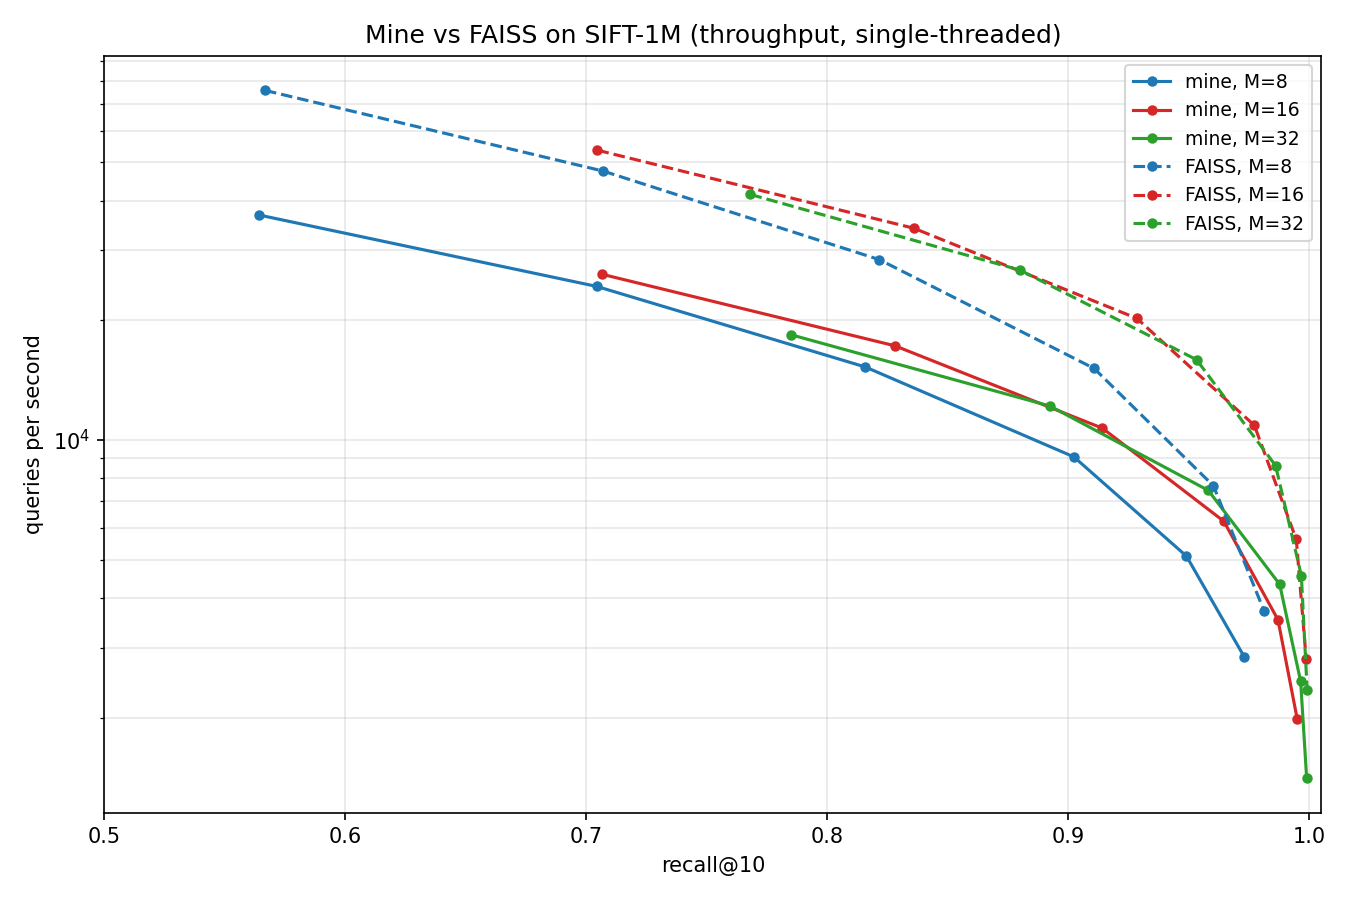
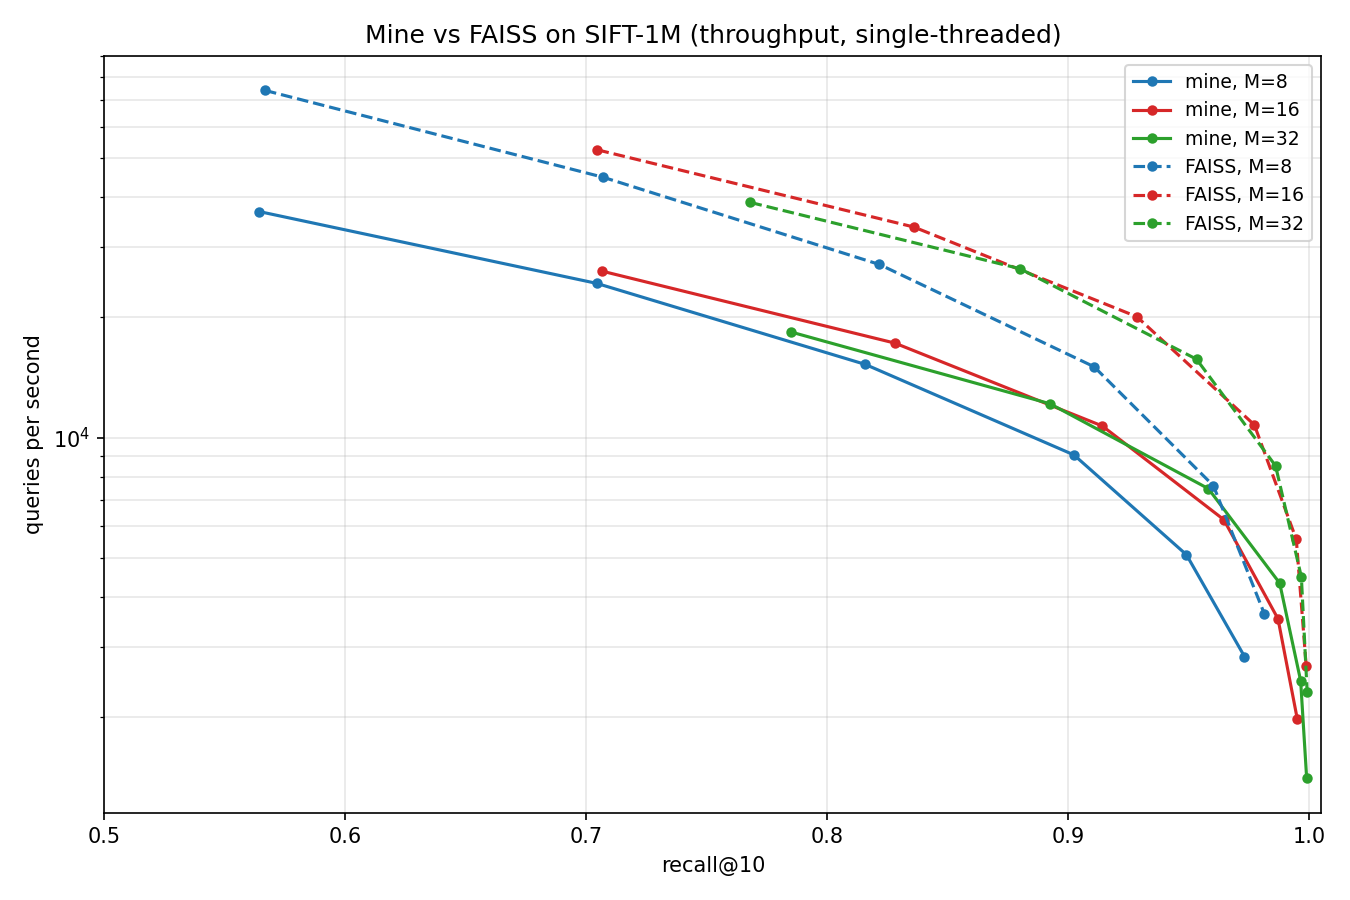
updated readme and ran data on faiss using multithreading and batching (10 cores)

diff --git a/benchmarks/faiss_compare.py b/benchmarks/faiss_compare.py
@@ -17,8 +17,8 @@ print(faiss.omp_get_max_threads())
 RESULTS_DIR = Path(__file__).resolve().parent / "results"
 INDEX_DIR = Path(__file__).resolve().parent.parent / "data" / "indexes"
 
-M_VALUES = [16]
-EFC_VALUES = [200]
+M_VALUES = [8, 16, 32]
+EFC_VALUES = [100, 200]
 EFS_VALUES = [10, 20, 40, 80, 160, 320]
 N_QUERIES = 1000
 K = 10
@@ -109,10 +109,18 @@ def main():
     queries, gt = queries[:N_QUERIES], gt[:N_QUERIES]
 
     rows  = bench_faiss(base, queries, gt, threads=1, batched=False)  # baseline
+
+    out = RESULTS_DIR / "faiss_sift1m.csv"
+    with open(out, "w", newline="") as f:
+        w = csv.DictWriter(f, fieldnames=list(rows[0].keys()))
+        w.writeheader()
+        w.writerows(rows)
+    print(f"\nwrote {out}")
+
     rows += bench_faiss(base, queries, gt, threads=1, batched=True)   # + batching
     rows += bench_faiss(base, queries, gt, threads=os.cpu_count(), batched=True)   # + threading
 
-    out = RESULTS_DIR / "faiss_sift1m.csv"
+    out = RESULTS_DIR / "faiss_threading.csv"
     with open(out, "w", newline="") as f:
         w = csv.DictWriter(f, fieldnames=list(rows[0].keys()))
         w.writeheader()

diff --git a/README.md b/README.md
@@ -1,3 +1,195 @@
-# Vector Search
-### An approximate nearest neighbour index implemented from scratch in C, with a zero-copy Python binding. 95% recall@10 at 205 times the throughput of brute-force search on SIFT-1M, scanning 0.13% of all vectors
+# Vector-Search
 
+
+An approximate nearest neighbour index implemented from scratch in C, with a zero-copy Python binding. **95% recall@10 at 205 times the throughput of exact search on SIFT-1M**, scanning 0.13% of all vectors
+
+
+![Pareto frontier](benchmarks/results/pareto_sift1m.png)
+
+
+The Pareto Plot above depicts the vector-search algorithm at different M (number of neighbouring nodes) and efConstruction (size of candidates/result arrays while constructing the graph) configurations, plotted against the brute-force algorithm.
+
+### Results
+
+
+Brute-force: 37 QPS, 1,000,000 distances/query
+
+|     config    |             recall 0.9          |     recall 0.95            |   recall 0.99              |
+|---------------|--------------------------------:|---------------------------:|---------------------------:|
+|    M=8 efC=100|      8352 QPS   227x   1092 nd  |  4550 QPS   124x   2027 nd |            not reached     |
+|    M=8 efC=200|      9227 QPS   251x    984 nd  |  5006 QPS   136x   1768 nd |            not reached     |
+|   M=16 efC=100|     11725 QPS   319x    857 nd  |  7504 QPS   204x   1348 nd |   2948 QPS    80x   3344 nd|
+|   M=16 efC=200|     11777 QPS   320x    857 nd  |  7526 QPS   205x   1348 nd |   2947 QPS    80x   3344 nd|
+|   M=32 efC=100|     11327 QPS   308x    921 nd  |  7772 QPS   211x   1335 nd |   3504 QPS    95x   2886 nd|
+|   M=32 efC=200|     11622 QPS   316x    899 nd  |  8042 QPS   219x   1278 nd |   3838 QPS   104x   2686 nd|
+
+
+#### Comparison against FAISS
+
+![Mine vs FAISS QPS](benchmarks/results/vs_faiss_qps.png)
+
+![Mine vs FAISS Work](benchmarks/results/vs_faiss_work.png)
+
+|      config  | recall |  mine QPS| FAISS QPS| ratio | mine nd  | FAISS nd | nd ratio|
+|--------------|-------:|---------:|---------:|------:|---------:|---------:|--------:|
+|         M=8  |   0.90 |    9227  |   16506  |  1.79x|   984    |    882   |  0.90x  |
+|         M=8  |   0.95 |    5006  |   9128   |  1.82x|   1768   |    1474  |   0.83x |
+|         M=8  |   0.99 |      -   |     -    |    -  |     -    |      -   |     -   |
+|        M=16  |   0.90 |    11777 |   24260  |  2.06x|   857    |    830   |   0.97x |
+|        M=16  |   0.95 |    7526  |   15967  |  2.12x|   1348   |    1220  |   0.91x |
+|        M=16  |   0.99 |    2947  |   6946   |  2.36x|   3344   |    2438  |   0.73x |
+|        M=32  |   0.90 |    11622 |   23536  |  2.03x|   899    |    950   |   1.06x |
+|        M=32  |   0.95 |    8042  |   16196  |  2.01x|   1278   |    1270  |   0.99x |
+|        M=32  |   0.99 |    3838  |    7006  |  1.83x|   2686   |    2738  |   1.02x |
+
+
+The vector-search algorithm is 1.79-2.36 times slower than FAISS's algorithm at matched recall, single-threaded on identical data. At M= 16, 0.95 recall, my algorithm has QPS = 7,526 while FAISS has 15,967. Compared to brute force, vector-search is 80-320 times faster, depending on recall.
+
+
+At M = 32, my algorithm has an nd of 899 vs 950 for FAISS (0.90 recall), 1278 vs 1270 (0.95 recall), and 2686 vs 2738 (0.99 recall). The work done is roughly equivalent while QPS differs by a factor of ~2. This can be attributed to cost of each individual distance computation rather than the algorithm. FAISS has hand-written SIMD intrinsics, prefetching of the next neighbour's vector boosting QPS. Vector-search relies on Clang's compiler auto vectorization (2.2 times scalar, measured by compiling with -fno-vectorize).
+
+
+At M = 16 and 0.99 recall, my nd is 3344 vs 2438 for FAISS, a 37% difference. This extra computational cost can be minimized by adding a keepPrunedConnections function, which backfills the empty neighbour slots from rejected candidates. I measured mean layer 0 degree as 21 against a cap of 32. The additional function would help ensure each node is close to their M0 cap of 32 neighbours. Both implementations were compared single-threaded, since mine has no parallelism. Measured separately, FAISS's batch API with 10 threads reaches 51,046 QPS at recall 0.977 against its own single-threaded per-query 10,644 — a 4.7× gain, of which only ~2% comes from batching itself. Multi-threaded search is the largest single advantage FAISS holds and the one I did not implement; the sub-linear scaling (4.7× on 10 cores) reflects memory bandwidth contention, since HNSW search is bandwidth-bound over a 656 MB FAISS index.
+
+
+## How it works
+
+Given a set of 1,000,000 vectors, we must find the closest one to a given query. Exact search (brute force) compares against all vectors, always returns the correct answer at 37 QPS, taking 27 ms. Approximate nearest-neighbour search returns 95% of the right answers at 200 times the speed
+
+
+Each vector is connected to M nearby ones, forming a graph. Every search starts at a specific entry point, and hops to the vector closest to the query. With a connected graph structure, each step checks ~M vectors rather than 1,000,000. At M = 16 and 0.95 recall, only 1348 distances were computed to find the 10 closest vectors to the query, at 95% accuracy; 0.13% of the entire collection
+
+
+A regular greedy search always get stuck in a local minimum. Neighbouring nodes look worse, but the true answer is actually 2 nodes away. This was fixed by tracking ef (efSearch for queries and efConstruction to build the graph) candidate nodes (best unexplored nodes) alongside the best results found so far. This allows nodes that are currently worse to stay alive and explored later. ef is the accuracy/speed dial and can be changed per query without rebuilding.
+
+
+Connecting each node to its M closest nodes fails as data forms clusters, stopping searches prematurely due to all M neighbours belonging to the same cluster. 50.3% of the graph was unreachable from the entry point, and recall capped at 0.665 regardless of ef. The solution is to reject a candidate that sits closer to an already selected neighbour than to the node itself, since the candidate is reachable through the neighbour. A direct edge would be redundant. As a result, edges are now longer, bridging clusters. Result: 99.9% of the graph is reachable, recall has a ceiling of 1.0.
+
+
+A layered structure solves the issue of starting every search from the same entry point. Nodes further from the entry node took longer to reach due to long walks with short edges. Nodes are assigned to random layers, with each successive layer having 1/16th the previous. The bottom (0th) layer consists of all nodes. Sparsely populated upper layers with long edges cover large distances, while lower layers have higher precision. As a result, 47 distance computations were used for the descent from the topmost layer, with ~2x throughput at matched recall versus the flat graph.
+
+## Project structure
+
+```
+src/         C implementation — vectors, distance, heap, graph, hnsw
+include/     headers
+tests/       C test suite, one binary per module
+python/      ctypes wrapper and data loaders
+benchmarks/  sweep harnesses, plotting, results
+```
+
+
+## Building
+
+Requires `gcc` (or Clang), `make`, and Python 3.10+ with numpy.
+
+```bash
+make            # builds build/libvindex.so
+make test       # builds and runs the C test suite
+make clean
+```
+
+### Memory checking
+
+valgrind has no Apple Silicon support, so memory checks run in a container:
+
+```bash
+docker build -f Dockerfile.test -t vindex-test .
+docker run --rm -it vindex-test bash
+# inside:
+make test
+for t in build/test_*; do valgrind --leak-check=full "$t"; done
+```
+
+## Data
+
+SIFT-1M from the [TEXMEX corpus](http://corpus-texmex.irisa.fr/). Extract into
+`data/`:
+
+`data/`
+
+`├── siftsmall/ # 10,000 vectors, for development`
+
+`└── sift/ # 1,000,000 vectors, for benchmarks`
+
+
+## Reproducing the benchmarks
+
+```bash
+pip install numpy matplotlib faiss-cpu
+
+python benchmarks/sweep_sift1m.py    # builds 6 indexes (~20 min), sweeps efSearch
+python benchmarks/faiss_compare.py   # same measurement against FAISS
+python benchmarks/plot.py            # writes plots and tables
+```
+
+Indexes are cached in `data/indexes/` and the build phase skips anything
+already present, so the sweep can be re-run without rebuilding.
+
+Benchmark conditions: Apple Silicon, plugged in, low power mode off, `-O2`
+with auto-vectorisation. 1,000 queries subsampled from the 10,000 provided.
+
+## Design decisions
+
+### C, not C++
+- C does not offer built in data structures such as priority_queue and std::vector,
+    which forces me to implement each from scratch
+- C keeps function names as it is, allowing ctypes (python module) to find it. C++ scrambled them and would need extern wrappers
+- Cost: ~250 extra lines, manual memory management
+- C++ would be the better option for multi-threading or handwritten SIMD intrinsics
+
+
+### numpy owns the vectors, C borrows a pointer
+- Since numpy owns the vectors, storing 1M Vectors costs 512MB. 
+- However, if C owned the vectors, copying per call would cost ~100ms to do 0.1ms of work
+- The cost is that there are 2 crash modes: C freeing borrowed memory and Python garbage collecting an array C still points at. Prevented by the wrapper holding a reference
+
+
+### Contiguous arrays, not pointer-per-element
+- Applies to both the vector store and the graph adjacency
+- Cache lines are 64 bytes and the prefetcher predicts sequential access;
+  pointer-chasing costs ~100 cycles vs ~4
+- A node's M=16 neighbour list is exactly one cache line
+- Cost: fixed dimension, fixed M, manual index arithmetic
+
+### Max-heap for finding the k smallest
+- Max-heap stores the worst result in heap.peek(), allowing fo O(1) lookup time
+- A min-heap surfaces the best keeper, which is never the question
+- Beam search uses both: min-heap of candidates, max-heap of results
+
+### Full-width layers
+- Every layer allocates n slots regardless of membership
+- Benefit: each layer is a graph, so every graph function works
+  unmodified, and lookup is direct arithmetic with no indirection
+- Cost: 380 MB of 544 MB is unused upper layer slots
+- The alternative, priced: compact layers with a global-to-local ID map
+  would recover ~340 MB for one extra memory read on the ~4% of distance
+  computations that happen above layer 0
+
+## Known limitations
+
+- **No deletion.** Removing a node would leave dangling edges in every
+  layer it appeared in; a tombstone-and-rebuild approach is the usual
+  answer. Scoped out deliberately.
+
+- **Single-threaded.** Both search and construction. Index construction is
+  embarrassingly parallel across insertions and would be the first thing
+  to thread.
+
+- **380 MB of the 544 MB index is empty upper-layer slots.** See the
+  full-width layer decision above; the compact alternative is priced there.
+
+- **`keepPrunedConnections` not implemented.** The neighbour heuristic can
+  select fewer than M neighbours when candidates are redundant; the paper
+  back-fills from rejected candidates. Measured mean layer-0 degree is 21
+  against a cap of 32, and at M=16 recall 0.99 this costs 37% more
+  distance computations than FAISS.
+
+- **Distance kernel relies on compiler auto-vectorisation**, not
+  hand-written SIMD intrinsics. Measured at 2.2x over scalar; the gap to
+  FAISS is roughly the same factor.
+
+- **Serialisation format is not portable across architectures.** The index
+  file is raw binary, assuming the reader matches the writer's endianness
+  and `sizeof(int)`. True on every platform this runs on; portability would
+  require byte-swapping every value on read and write.
